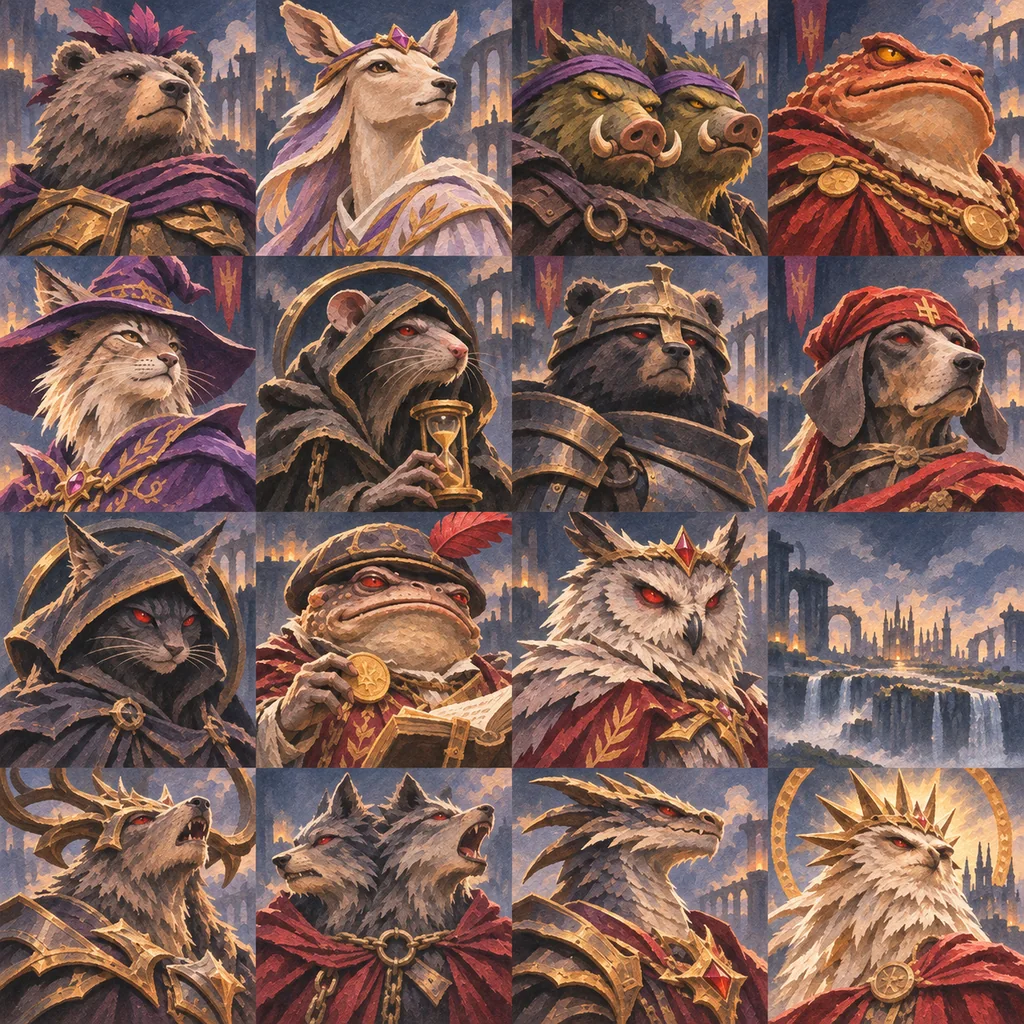
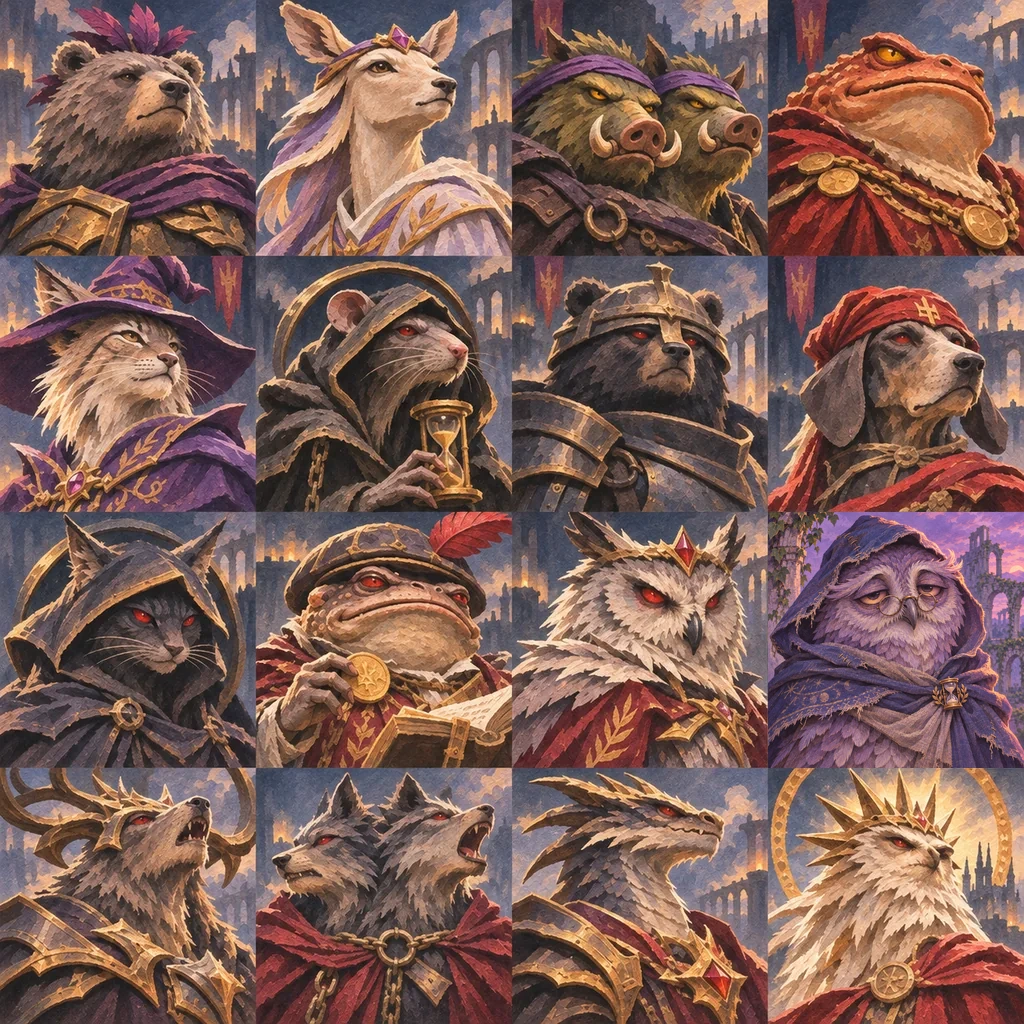
Release v253: painted portraits for the Shattered Realm and Fallen Throne

Changed region(s): [[0.75, 0.5, 1.0, 0.75]]

diff --git a/index.html b/index.html
@@ -1,12 +1,12 @@
 <!doctype html>
 <html lang="en">
 <head>
-<script src="gameplay-polish.js?v=252"></script>
-<script src="piece-designs.js?v=252"></script>
-<script src="character-style.js?v=252"></script>
-<script src="campaign-opponents.js?v=252"></script>
-<script src="campaign-dialogue.js?v=252"></script>
-<link rel="stylesheet" href="character-style.css?v=252">
+<script src="gameplay-polish.js?v=253"></script>
+<script src="piece-designs.js?v=253"></script>
+<script src="character-style.js?v=253"></script>
+<script src="campaign-opponents.js?v=253"></script>
+<script src="campaign-dialogue.js?v=253"></script>
+<link rel="stylesheet" href="character-style.css?v=253">
 
 <meta charset="utf-8">
 <meta name="viewport" content="width=device-width,initial-scale=1,viewport-fit=cover">
@@ -2324,10 +2324,10 @@ body[data-pack="gauntlet"] .pblind .sigchip{display:none}
 .scoring-total b{color:var(--brass);font-size:clamp(18px,5vw,26px)}
 @media(prefers-reduced-motion:reduce){.scoring-sequence.bump{animation:none}}
 </style>
-<link rel="stylesheet" href="city-board.css?v=252">
-<link rel="stylesheet" href="ruler-style.css?v=252">
-<link rel="stylesheet" href="gameplay-polish.css?v=252">
-<link rel="stylesheet" href="storybook.css?v=252">
+<link rel="stylesheet" href="city-board.css?v=253">
+<link rel="stylesheet" href="ruler-style.css?v=253">
+<link rel="stylesheet" href="gameplay-polish.css?v=253">
+<link rel="stylesheet" href="storybook.css?v=253">
 <div id="app"></div>
 <div id="rotateOv" aria-live="polite"><i aria-hidden="true">📱</i><b>Rotate your phone</b><span>Crownfall battles are designed for portrait play.</span></div>
 
@@ -3688,7 +3688,7 @@ async function cloudInit(){
 let onTitle = false;
 // ===== build number: the ONE place the version lives. Shown on the title screen and in How to play;
 // the site build reads it to name the service-worker cache 'crownfall-v' + GAME_VERSION. +1 every published update.
-const GAME_VERSION = 252;
+const GAME_VERSION = 253;
 const VERSION_LABEL = () => `v${GAME_VERSION}`;
 const has = id => RUN.relics.includes(id);
 const bossAt = a => RUN.bosses[(a-1) % RUN.bosses.length];
@@ -5185,7 +5185,7 @@ function personaOf(id){ const n = bossName(id);
   if(PERSONA[n]) return storyLines({name:n, ...PERSONA[n], ruler:id === 'ruler'}); if(SIMPLE_TALK[n]) return storyLines({name:n, ...SIMPLE_TALK[n], simple:true}); return null; }
 /* v237: a painted opponent shows only its painting. (Before, the old drawn face sat underneath and showed for a moment
    while the painting sheet loaded.) The sheets are also loaded and decoded ahead of time, see preloadOppSheets. */
-const OPP_SHEET = {medieval:'iron-kingdom', greek:'olympian-court', fantasy:'road-opponents', throne:'road-opponents'};
+const OPP_SHEET = {medieval:'iron-kingdom', greek:'olympian-court', fantasy:'shattered-realm', throne:'fallen-throne'};
 const oppSheetImgs = {};   // kept so the decoded images stay in memory
 function preloadOppSheet(sheet){
   if(!sheet || oppSheetImgs[sheet]) return;

diff --git a/sw.js b/sw.js
@@ -1,19 +1,19 @@
 // Crownfall offline cache. Bump VERSION when you upload a new index.html.
 // Music in soundtrack/ is cached on demand.
-const VERSION = 'crownfall-v252';
+const VERSION = 'crownfall-v253';
 // v229: the first visit downloads only what the first session needs (the page once, scripts, icons, land and crown art,
 // portraits, Crown City's walk-in). Later art (the other Lands' walk-ins, the ending paintings) is cached the first time
 // it is shown, and topped up quietly a little after launch on a good connection, so the game still works offline.
 const FILES = [
-  './storybook.css?v=252', './assets/card-illustrations.webp',
+  './storybook.css?v=253', './assets/card-illustrations.webp',
   './assets/relics/street.webp', './assets/relics/medieval.webp', './assets/relics/greek.webp',
   './assets/relics/fantasy.webp', './assets/relics/throne.webp',
-  './assets/opponents/iron-kingdom.webp', './assets/opponents/olympian-court.webp', './assets/opponents/road-opponents.webp', './assets/intro/bg-street.webp',
+  './assets/opponents/iron-kingdom.webp', './assets/opponents/olympian-court.webp', './assets/opponents/road-opponents.webp', './assets/opponents/shattered-realm.webp', './assets/opponents/fallen-throne.webp', './assets/intro/bg-street.webp',
   './assets/intro/fig-city.webp', './assets/splash/crown-city-night.webp', './assets/splash/royal-courtyard.webp', './assets/splash/road-to-the-crown.webp',
-  './gameplay-polish.js?v=252', './gameplay-polish.css?v=252', './assets/rulers/raven.webp', './assets/rulers/stag.webp',
-  './assets/rulers/owl.webp', './assets/rulers/lion.webp', './assets/rulers/fox.webp', './piece-designs.js?v=252',
-  './character-style.js?v=252', './character-style.css?v=252', './campaign-opponents.js?v=252', './campaign-dialogue.js?v=252',
-  './city-board.css?v=252', './ruler-style.css?v=252', './downtown-journey.webp', './index.html',
+  './gameplay-polish.js?v=253', './gameplay-polish.css?v=253', './assets/rulers/raven.webp', './assets/rulers/stag.webp',
+  './assets/rulers/owl.webp', './assets/rulers/lion.webp', './assets/rulers/fox.webp', './piece-designs.js?v=253',
+  './character-style.js?v=253', './character-style.css?v=253', './campaign-opponents.js?v=253', './campaign-dialogue.js?v=253',
+  './city-board.css?v=253', './ruler-style.css?v=253', './downtown-journey.webp', './index.html',
   './manifest.webmanifest', './cf-icon-192.png', './cf-icon-512.png', './cf-touch-180.png',
   './cf-favicon-32.png', './crownfall-logo.webp', './crown-city.webp', './iron-kingdom.webp',
   './olympian-court.webp', './shattered-realm.webp', './fallen-throne.webp', './spray-paint-crown.webp',

diff --git a/campaign-opponents.js b/campaign-opponents.js
@@ -276,10 +276,22 @@ const sheets = {
     "Gatekeeper Phaedra", "Ferryman Orestes", "Agorakeeper Melia", "Grovewarden Lysandra",
     "Atalanta the Swift", "Heracles", "Hector of Troy", "King Aeëtes"
   ],
+  'shattered-realm': [
+    'Briar Scout Tovin', 'Galeweaver Eira', 'Cloudkeeper Sorrel', 'Cavern Seer Nyssa',
+    'Mirrorwalker Quill', 'Prismbinder Orlan', 'Featherguard Aven', 'Roostkeeper Thistle',
+    'Ridgewatch Kaelis', 'Sporekeeper Pipkin', 'Bazaar Witch Velka', 'Coinburrow Mott',
+    'Zephyra the Stormborn', 'Veyl of the Crystal Eye', 'Seraphon Skyclaw', 'Goblin King Grubnik'
+  ],
+  'fallen-throne': [
+    'Ashgate Sentinel', 'Cinder Marshal', 'Ember Watcher', 'Echo Castellan',
+    'Broken Diadem', 'Gallery Revenant', 'Stable Mourner', 'Pale Bridgekeeper',
+    'Black Cavalier', 'Tribute Bailiff', 'Vault Confessor', 'Debtor Wraith',
+    'The Ash Herald', 'The Hollow Crown', 'The Ruined Knight', 'The Tithe Lord'
+  ],
   'road-opponents': [
     "The Stone Golem", "The Unicorn Warden", "The Two-Headed Ogre", "The Dragon Hoarder",
     "The Archmage", "The Hourglass Wraith", "The Obsidian Wall", "The Stablebane",
-    "The Twin Shadows", "The Tithe Collector", "The Fallen Grandmaster"
+    "The Twin Shadows", "The Tithe Collector", "The Fallen Grandmaster", "The Timewarden"
   ]
 };
 const paintings = new Map();
